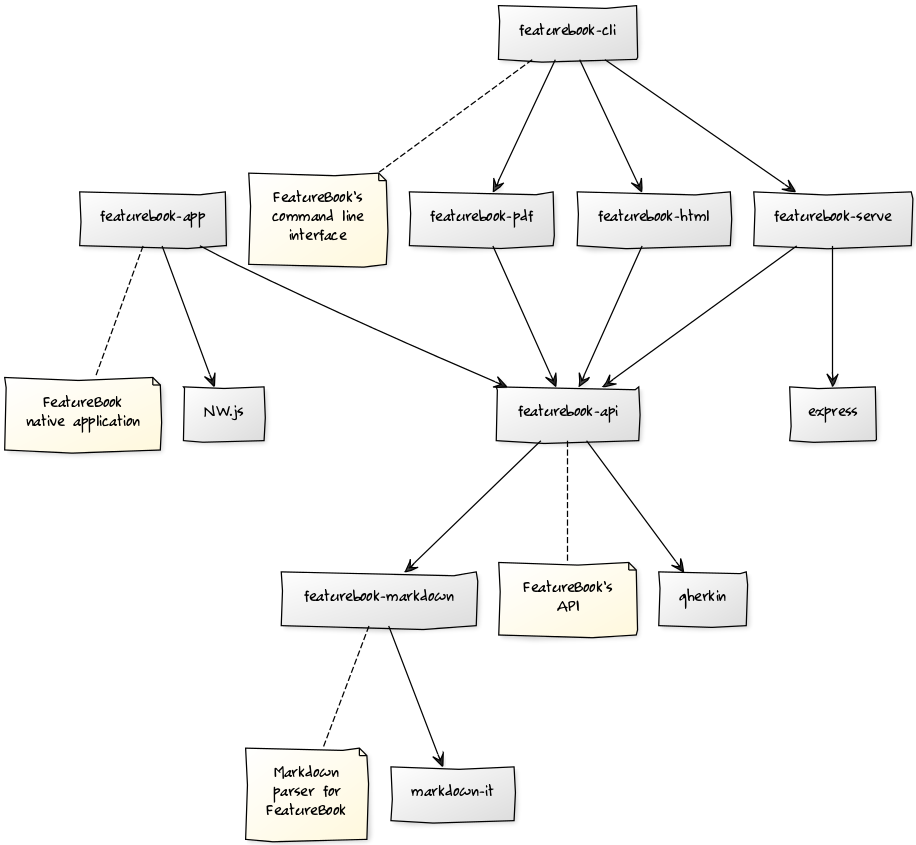
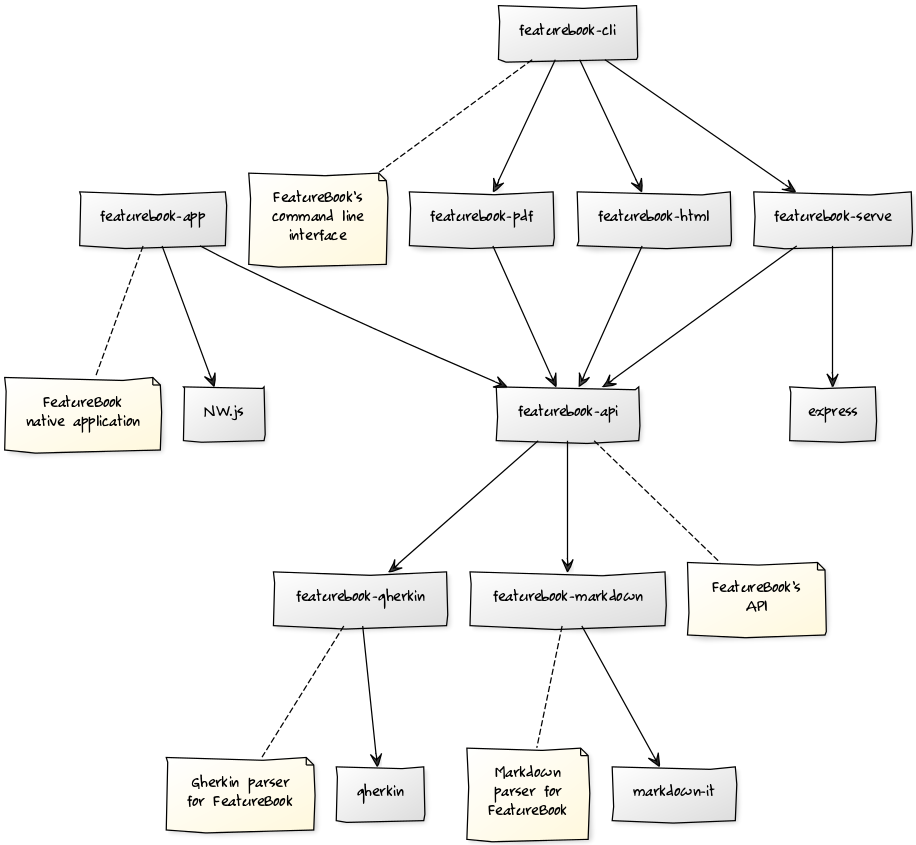
refactor: separate featurebook-gherkin module

diff --git a/test/lib/featurebook-gherkin.spec.js b/test/lib/featurebook-gherkin.spec.js
@@ -1,0 +1,152 @@
+'use strict';
+
+var gherkin = require('../../lib/featurebook-gherkin');
+
+describe('featurebook-gherkin', function () {
+
+  describe('#parse', function () {
+
+    it('should parse a feature written in Polish', function () {
+      var featureAsString =
+        "# language: pl\n" +
+        "Funkcja: Logowanie do aplikacji\n" +
+        "\n" +
+        "  Scenariusz: Logowanie jako admin\n" +
+        "    Mając otwartą stronę \"/login.com\"\n" +
+        "    Kiedy wpiszesz \"admin\" jako nazwę\n" +
+        "    I wpiszesz \"***\" jako hasło\n" +
+        "    I klikniesz przycisk \"Loguj\"\n" +
+        "    Wtedy zalogujesz się jako administrator\n"
+
+      var feature = gherkin.parse(featureAsString);
+
+      feature.should.have.property('language', 'pl');
+      feature.should.have.property('type', 'Feature');
+      feature.should.have.property('keyword', 'Funkcja');
+      feature.should.have.property('name', 'Logowanie do aplikacji');
+
+      var scenarioDefinitions = feature.scenarioDefinitions;
+
+      scenarioDefinitions[0].should.have.deep.property('type', 'Scenario');
+      scenarioDefinitions[0].should.have.deep.property('keyword', 'Scenariusz');
+      scenarioDefinitions[0].should.have.deep.property('name', 'Logowanie jako admin');
+
+      scenarioDefinitions[0].should.have.deep.property('steps[0].type', 'Step');
+      scenarioDefinitions[0].should.have.deep.property('steps[0].keyword', 'Mając ');
+      scenarioDefinitions[0].should.have.deep.property('steps[0].text', 'otwartą stronę "/login.com"');
+
+      scenarioDefinitions[0].should.have.deep.property('steps[1].type', 'Step');
+      scenarioDefinitions[0].should.have.deep.property('steps[1].keyword', 'Kiedy ');
+      scenarioDefinitions[0].should.have.deep.property('steps[1].text', 'wpiszesz "admin" jako nazwę');
+
+      scenarioDefinitions[0].should.have.deep.property('steps[2].type', 'Step');
+      scenarioDefinitions[0].should.have.deep.property('steps[2].keyword', 'I ');
+      scenarioDefinitions[0].should.have.deep.property('steps[2].text', 'wpiszesz "***" jako hasło');
+
+      scenarioDefinitions[0].should.have.deep.property('steps[3].type', 'Step');
+      scenarioDefinitions[0].should.have.deep.property('steps[3].keyword', 'I ');
+      scenarioDefinitions[0].should.have.deep.property('steps[3].text', 'klikniesz przycisk "Loguj"');
+
+      scenarioDefinitions[0].should.have.deep.property('steps[4].type', 'Step');
+      scenarioDefinitions[0].should.have.deep.property('steps[4].keyword', 'Wtedy ');
+      scenarioDefinitions[0].should.have.deep.property('steps[4].text', 'zalogujesz się jako administrator');
+    });
+
+    it('should parse a feature with a single scenario', function () {
+      var featureAsString =
+        "Feature: Hello World\n" +
+        "\n" +
+        "  Hey Ma this feature has a very nice description with image\n" +
+        "\n" +
+        "  ![Hello Screenshot](file://assets/images/hello_world.png)\n" +
+        "\n" +
+        "  Scenario: Look Ma\n" +
+        "    Given I am in a browser\n" +
+        "    When I make a syntax error\n" +
+        "    Then stuff should be red\n";
+
+      var feature = gherkin.parse(featureAsString);
+
+      feature.should.have.property('language', 'en');
+      feature.should.have.property('type', 'Feature');
+      feature.should.have.property('keyword', 'Feature');
+      feature.should.have.property('name', 'Hello World');
+
+      var scenarioDefinitions = feature.scenarioDefinitions;
+      scenarioDefinitions[0].should.have.property('type', 'Scenario');
+      scenarioDefinitions[0].should.have.property('keyword', 'Scenario');
+      scenarioDefinitions[0].should.have.property('name', 'Look Ma');
+
+      scenarioDefinitions[0].should.have.deep.property('steps[0].type', 'Step');
+      scenarioDefinitions[0].should.have.deep.property('steps[0].keyword', 'Given ');
+      scenarioDefinitions[0].should.have.deep.property('steps[0].text', 'I am in a browser');
+
+      scenarioDefinitions[0].should.have.deep.property('steps[1].type', 'Step');
+      scenarioDefinitions[0].should.have.deep.property('steps[1].keyword', 'When ');
+      scenarioDefinitions[0].should.have.deep.property('steps[1].text', 'I make a syntax error');
+
+      scenarioDefinitions[0].should.have.deep.property('steps[2].type', 'Step');
+      scenarioDefinitions[0].should.have.deep.property('steps[2].keyword', 'Then ');
+      scenarioDefinitions[0].should.have.deep.property('steps[2].text', 'stuff should be red');
+    });
+
+    it('should parse a feature with a single scenario outline', function () {
+      var featureAsString =
+        "Feature: Eating cucumbers\n" +
+        "\n" +
+        "  Scenario Outline: Eat\n" +
+        "    Given there are <start> cucumbers\n" +
+        "    When I eat <eat> cucumbers\n" +
+        "    Then I should have <left> cucumbers\n" +
+        "\n" +
+        "  Examples:\n" +
+        "    | start | eat | left |\n" +
+        "    | 12    | 5   | 7    |\n" +
+        "    | 20    | 5   | 15   |\n";
+
+      var feature = gherkin.parse(featureAsString);
+
+      feature.should.have.property('language', 'en');
+      feature.should.have.property('type', 'Feature');
+      feature.should.have.property('keyword', 'Feature');
+      feature.should.have.property('name', 'Eating cucumbers');
+
+      var scenarioDefinitions = feature.scenarioDefinitions;
+      scenarioDefinitions[0].should.have.property('type', 'ScenarioOutline');
+      scenarioDefinitions[0].should.have.property('keyword', 'Scenario Outline');
+      scenarioDefinitions[0].should.have.property('name', 'Eat');
+
+      scenarioDefinitions[0].should.have.deep.property('steps[0].type', 'Step');
+      scenarioDefinitions[0].should.have.deep.property('steps[0].keyword', 'Given ');
+      scenarioDefinitions[0].should.have.deep.property('steps[0].text', 'there are <start> cucumbers');
+
+      scenarioDefinitions[0].should.have.deep.property('steps[1].type', 'Step');
+      scenarioDefinitions[0].should.have.deep.property('steps[1].keyword', 'When ');
+      scenarioDefinitions[0].should.have.deep.property('steps[1].text', 'I eat <eat> cucumbers');
+
+      scenarioDefinitions[0].should.have.deep.property('steps[2].type', 'Step');
+      scenarioDefinitions[0].should.have.deep.property('steps[2].keyword', 'Then ');
+      scenarioDefinitions[0].should.have.deep.property('steps[2].text', 'I should have <left> cucumbers');
+
+      scenarioDefinitions[0].examples[0].should.have.property('type', 'Examples');
+      scenarioDefinitions[0].examples[0].should.have.property('keyword', 'Examples');
+
+      scenarioDefinitions[0].examples[0].tableHeader.should.have.deep.property('type', 'TableRow');
+      scenarioDefinitions[0].examples[0].tableHeader.should.have.deep.property('cells[0].value', 'start');
+      scenarioDefinitions[0].examples[0].tableHeader.should.have.deep.property('cells[1].value', 'eat');
+      scenarioDefinitions[0].examples[0].tableHeader.should.have.deep.property('cells[2].value', 'left');
+
+      scenarioDefinitions[0].examples[0].tableBody.should.have.deep.property('[0].type', 'TableRow');
+      scenarioDefinitions[0].examples[0].tableBody.should.have.deep.property('[0].cells[0].value', '12');
+      scenarioDefinitions[0].examples[0].tableBody.should.have.deep.property('[0].cells[1].value', '5');
+      scenarioDefinitions[0].examples[0].tableBody.should.have.deep.property('[0].cells[2].value', '7');
+
+      scenarioDefinitions[0].examples[0].tableBody.should.have.deep.property('[1].type', 'TableRow');
+      scenarioDefinitions[0].examples[0].tableBody.should.have.deep.property('[1].cells[0].value', '20');
+      scenarioDefinitions[0].examples[0].tableBody.should.have.deep.property('[1].cells[1].value', '5');
+      scenarioDefinitions[0].examples[0].tableBody.should.have.deep.property('[1].cells[2].value', '15');
+    });
+
+  });
+
+});

diff --git a/test/lib/gherkin-model.spec.js b/test/lib/gherkin-model.spec.js
@@ -9,40 +9,6 @@ describe('gherkin-model', function () {
 
   describe('#readFeatureSync', function () {
 
-    it('should parse a simple feature with a single scenario', function () {
-      var feature = featurebook.readFeatureSync(path.join(FEATURES_DIR, 'hello_world.feature')),
-        firstScenarioDefinition = feature.scenarioDefinitions[0];
-
-      feature.name.should.equal('Hello World');
-
-      feature.scenarioDefinitions.should.have.length(1);
-
-      firstScenarioDefinition.name.should.equal('Look Ma');
-      firstScenarioDefinition.steps.should.have.length(3);
-
-      assertStepEqual(firstScenarioDefinition.steps[0], 'Given ', 'I am in a browser');
-      assertStepEqual(firstScenarioDefinition.steps[1], 'When ', 'I make a syntax error');
-      assertStepEqual(firstScenarioDefinition.steps[2], 'Then ', 'stuff should be red');
-    });
-
-    it('should parse a simple feature with a single scenario outline', function () {
-      var feature = featurebook.readFeatureSync(path.join(FEATURES_DIR, 'eating_cucumbers.feature')),
-        firstScenarioDefinition = feature.scenarioDefinitions[0];
-
-      feature.name.should.equal('Eating cucumbers');
-      feature.scenarioDefinitions.should.have.length(1);
-
-      firstScenarioDefinition.name.should.equal('Eat');
-      firstScenarioDefinition.steps.should.have.length(3);
-
-      assertStepEqual(firstScenarioDefinition.steps[0], 'Given ', 'there are <start> cucumbers');
-      assertStepEqual(firstScenarioDefinition.steps[1], 'When ', 'I eat <eat> cucumbers');
-      assertStepEqual(firstScenarioDefinition.steps[2], 'Then ', 'I should have <left> cucumbers');
-
-      assertTableHeaderEqual(firstScenarioDefinition.examples[0].tableHeader, ['start', 'eat', 'left']);
-      assertTableDataEqual(firstScenarioDefinition.examples[0].tableBody, [['12', '5', '7'], ['20', '5', '15']]);
-    });
-
     it('should parse a simple feature with the background', function () {
       var feature = featurebook.readFeatureSync(path.join(FEATURES_DIR, 'simple_feature_with_background.feature'));
       var backgroundSteps = feature.background.steps;
@@ -61,20 +27,6 @@ describe('gherkin-model', function () {
       assertStepEqual(firstScenarioSteps[0], 'Given ', 'scenario step 1');
       assertStepEqual(firstScenarioSteps[1], 'When ', 'scenario step 2');
       assertStepEqual(firstScenarioSteps[2], 'Then ', 'scenario step 3');
-    });
-
-    it('should parse a simple feature written in Polish', function () {
-      var feature = featurebook.readFeatureSync(path.join(FEATURES_DIR, 'simple_feature_written_in_polish.feature')),
-        firstScenario = feature.scenarioDefinitions[0];
-
-      feature.name.should.equal('Logowanie do aplikacji');
-      feature.scenarioDefinitions.should.have.length(1);
-
-      assertStepEqual(firstScenario.steps[0], 'Mając ', 'otwartą stronę "/login.com"');
-      assertStepEqual(firstScenario.steps[1], 'Kiedy ', 'wpiszesz "admin" jako nazwę');
-      assertStepEqual(firstScenario.steps[2], 'I ', 'wpiszesz "***" jako hasło');
-      assertStepEqual(firstScenario.steps[3], 'I ', 'klikniesz przycisk "Loguj"');
-      assertStepEqual(firstScenario.steps[4], 'Wtedy ', 'zalogujesz się jako administrator');
     });
 
     it('should parse a simple feature with data tables', function () {

diff --git a/lib/featurebook-html.js b/lib/featurebook-html.js
@@ -1,3 +1,5 @@
+'use strict';
+
 var _ = require('lodash');
 var color = require('bash-color');
 var fs = require('fs-extra');
@@ -7,7 +9,7 @@ var featurebook = require('./featurebook-api');
 var markdown = require('./featurebook-markdown');
 
 var TEMPLATES_DIR = path.join(__dirname, './META-INF/html');
-var NO_SUMMARY_MESSAGE_MD= 'You can put some content here by creating the `SUMMARY.md` Markdown file.';
+var NO_SUMMARY_MESSAGE_MD = 'You can put some content here by creating the `SUMMARY.md` Markdown file.';
 
 function html(specDir, outputDir) {
   var metadata = featurebook.readMetadataSync(specDir);
@@ -89,7 +91,7 @@ function getImageRenderer(pathPrefix) {
     var src = attrs.src;
     attrs.src = isAsset(src) ? removeSchemaPrefix(src) : src;
     return attrs;
-  }
+  };
 
   function isAsset(href) {
     return _.startsWith(href, markdown.ASSET_URL_SCHEMA);
@@ -107,7 +109,7 @@ function getLinkRenderer(pathPrefix) {
     var href = attrs.href;
     attrs.href = isFeature(href) ? removeSchemaPrefixAndAppendHtmlSuffix(href) : href;
     return attrs;
-  }
+  };
 
   function isFeature(href) {
     return _.startsWith(href, markdown.FEATURE_URL_SCHEMA);

diff --git a/lib/featurebook-api.js b/lib/featurebook-api.js
@@ -1,8 +1,9 @@
+'use strict';
+
 var fs = require('fs');
 var path = require('path');
 var walker = require('./dir-walker');
-var Gherkin = require('gherkin');
-var parser = new Gherkin.Parser();
+var gherkin = require('./featurebook-gherkin');
 
 var DEFAULT_FILE_ENCODING = 'UTF-8';
 var DEFAULT_METADATA_FILE_NAME = 'featurebook.json';
@@ -128,7 +129,7 @@ function readFeature(file, callback) {
       throw err;
     }
     try {
-      callback(null, parser.parse(data));
+      callback(null, gherkin.parse(data));
     } catch (err) {
       callback(err);
     }
@@ -140,7 +141,7 @@ function readFeature(file, callback) {
  * @param file
  */
 function readFeatureSync(file) {
-  return parser.parse(fs.readFileSync(file, DEFAULT_FILE_ENCODING));
+  return gherkin.parse(fs.readFileSync(file, DEFAULT_FILE_ENCODING));
 }
 
 function ignoredFilesFilter(f) {

diff --git a/lib/featurebook-gherkin.js b/lib/featurebook-gherkin.js
@@ -1,0 +1,12 @@
+'use strict';
+
+var Gherkin = require('gherkin');
+var parser = new Gherkin.Parser();
+
+module.exports = {
+  parse: parse
+};
+
+function parse(text) {
+  return parser.parse(text);
+}

diff --git a/lib/featurebook-serve.js b/lib/featurebook-serve.js
@@ -1,3 +1,5 @@
+'use strict';
+
 var _ = require('lodash');
 var path = require('path');
 var express = require('express');

diff --git a/lib/featurebook-markdown.js b/lib/featurebook-markdown.js
@@ -1,3 +1,5 @@
+'use strict';
+
 var md = require('markdown-it')({
   linkify: true
 });
